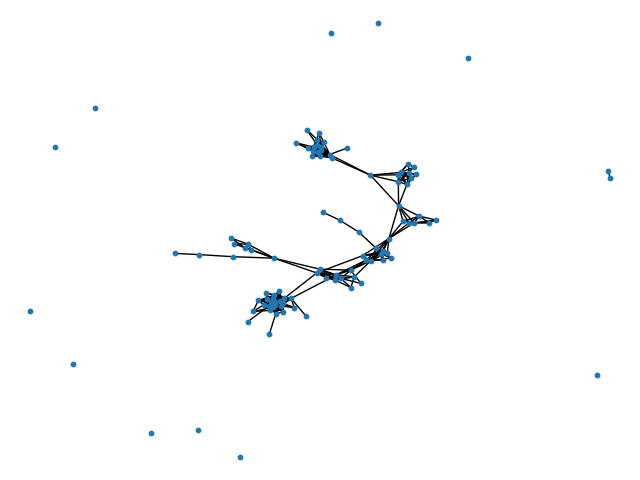
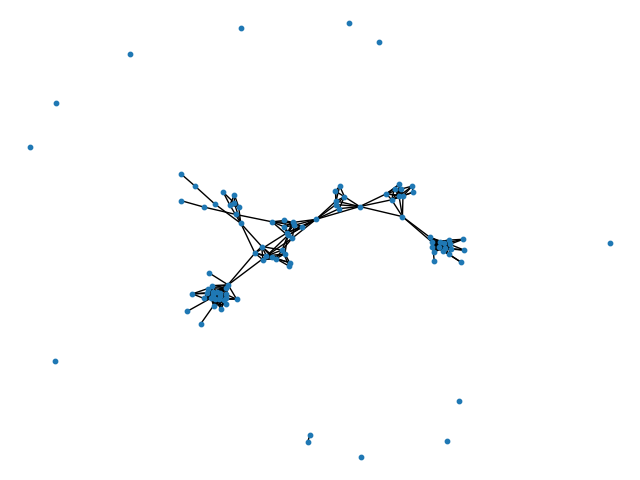
update

diff --git a/vk/main.py b/vk/main.py
@@ -7,9 +7,7 @@ import pandas as pd
 
 class User(object):
 
-    # def __init__(self, login='+77479072208', password='puartorikokarlo787', id=181400651):
-    def __init__(self, login='+79856211067', password='Sport1998!', id=22043814):
-        # def __init__(self, login='+79856211067', password='Sport1998!', id=28929682):
+    def __init__(self, login='xxx', password='xxx', id=28929682):
         vk_session = vk_api.VkApi(login, password)
         vk_session.auth()
         self.api = vk_session.get_api()
@@ -34,7 +32,7 @@ class User(object):
     def set_relations(self):
         for i in range(self.count_nodes):
             if i % 20 == 0:
-                print('set realtions finish progress: ', i / self.count_nodes)
+                print('function set relations progress: ', i / self.count_nodes)
             try:
                 d = self.api.friends.get(user_id=self.nodes[i])
             except:
@@ -42,7 +40,7 @@ class User(object):
             cur_friends = np.array(d['items'])
             common_friends = np.intersect1d(self.nodes, cur_friends, assume_unique=True)
             self.adj_matrix.loc[self.nodes[i], common_friends] = 1
-            # self.adj_matrix.iloc[common_friends, self.nodes[i]] = 1
+            self.adj_matrix.loc[common_friends, self.nodes[i]] = 1
 
 
 U = User()
@@ -51,6 +49,6 @@ U.set_relations()
 G = nx.from_numpy_matrix(U.adj_matrix.values)
 
 nx.draw(G, with_labels=False, font_weight='bold', node_size=10)
-plt.savefig('network_julia.png')
-nx.write_gpickle(G, "julia.gpickle")
+plt.savefig('network_andrey.png')
+nx.write_gpickle(G, "andrey.gpickle")
 # plt.show()
